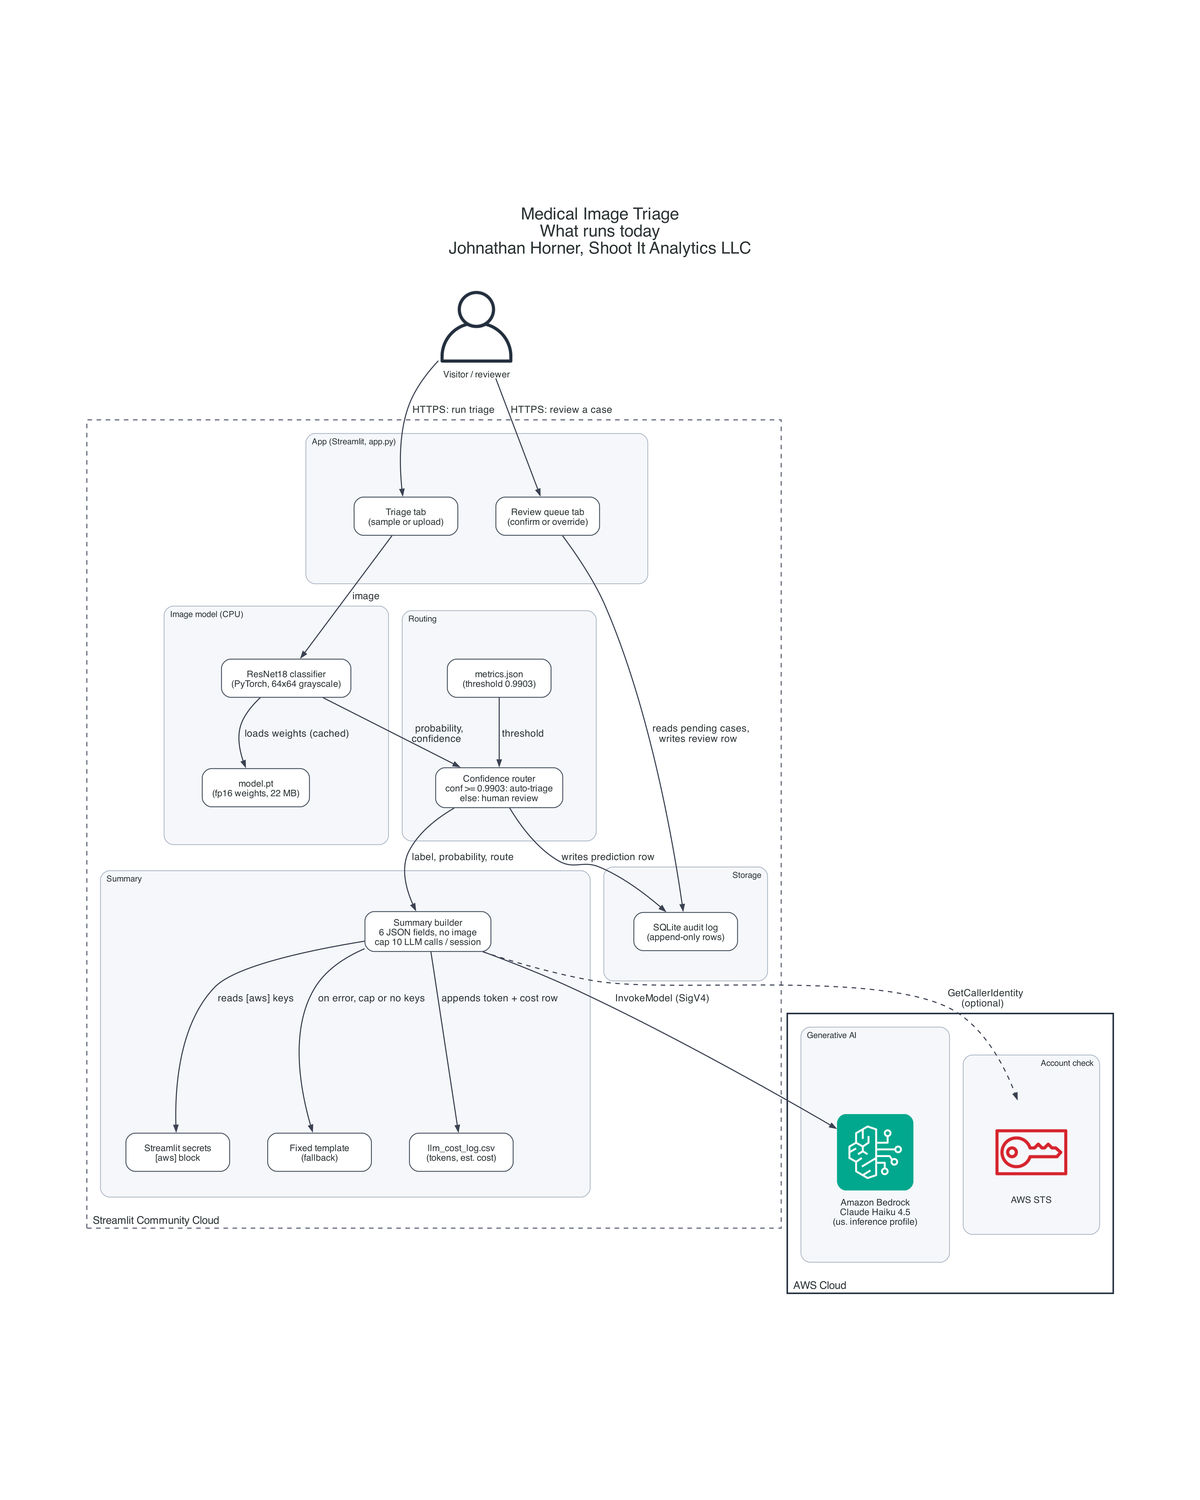
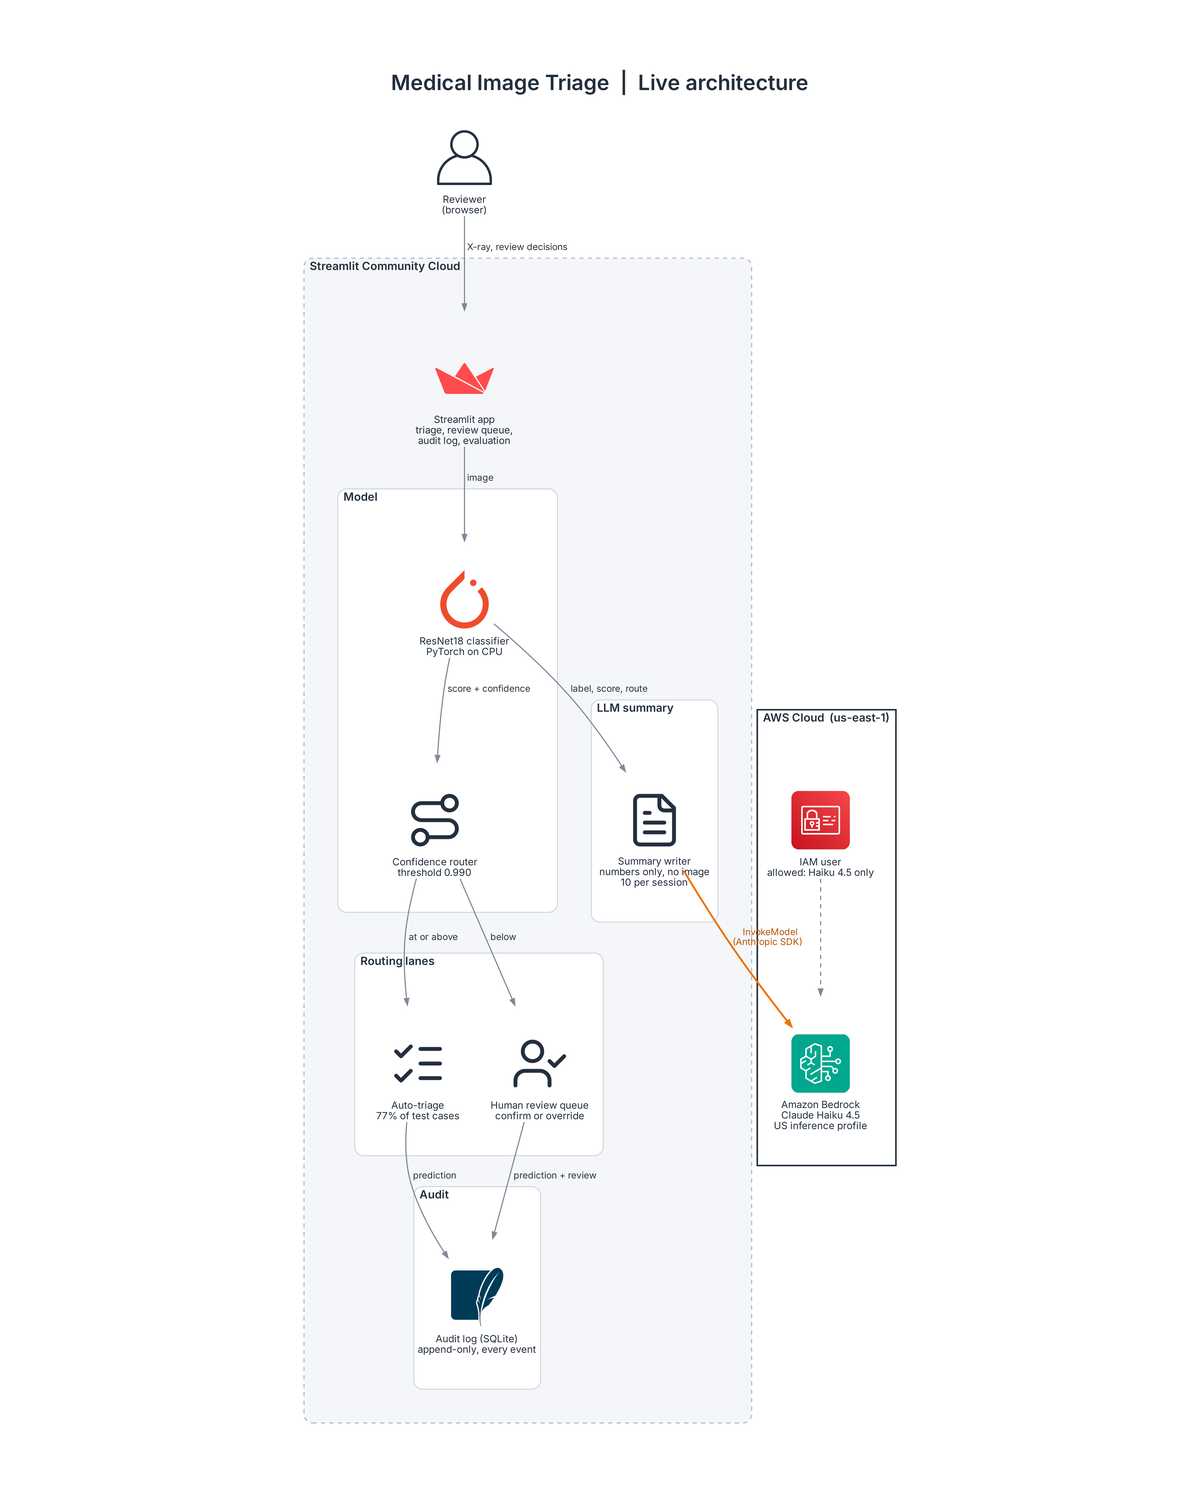
Replace architecture diagrams

diff --git a/docs/architecture/architecture.py b/docs/architecture/architecture.py
@@ -1,67 +1,47 @@
-"""Medical Image Triage: what runs today, traced from origin/main (e73b006).
+"""Medical Image Triage: what runs today (live on Streamlit Community Cloud)."""
+import sys
+from pathlib import Path
 
-Run from this directory:  python architecture.py
-Writes architecture.png (300 DPI) and architecture-linkedin.png (1200x1500).
-"""
-from diagrams.aws.general import User
+sys.path.insert(0, str(Path(__file__).resolve().parent))
+from diagrams import Diagram, Edge
 from diagrams.aws.ml import Bedrock
-from diagrams.aws.security import IAMAWSSts
+from diagrams.aws.security import IAM
+from diagrams.onprem.client import User
 
-from archstyle import arch, aws_cloud, box, e, layer, linkedin, outside
+from style import EDGE, GRAPH, NODE, area, flow, icon, primary, soft
 
+with Diagram("Medical Image Triage  |  Live architecture",
+             filename=str(Path(__file__).with_name("architecture")), outformat="png", direction="TB",
+             show=False, graph_attr=GRAPH, node_attr=NODE, edge_attr=EDGE):
+    user = User("Reviewer\n(browser)")
 
-def layer_r(label: str, margin: int = 30):
-    """layer() with its label top-right, for layers whose arrows arrive from the upper left."""
-    c = layer(label, margin)
-    c.dot.graph_attr["labeljust"] = "r"
-    return c
+    with area("Streamlit Community Cloud", "host"):
+        app = icon("streamlit", "Streamlit app\ntriage, review queue,\naudit log, evaluation")
 
-OUT = "architecture"
+        with area("Model"):
+            model = icon("pytorch", "ResNet18 classifier\nPyTorch on CPU")
+            router = icon("route-ink", "Confidence router\nthreshold 0.990")
 
-with arch("Medical Image Triage", "What runs today", OUT):
-    user = User("Visitor / reviewer")
+        with area("Routing lanes"):
+            auto = icon("list-checks-ink", "Auto-triage\n77% of test cases")
+            queue = icon("user-check-ink", "Human review queue\nconfirm or override")
 
-    with outside("Streamlit Community Cloud"):
-        with layer("App (Streamlit, app.py)", margin=64):
-            triage = box("Triage tab\n(sample or upload)")
-            review = box("Review queue tab\n(confirm or override)")
+        with area("LLM summary"):
+            summary = icon("file-text-ink", "Summary writer\nnumbers only, no image\n10 per session")
+        with area("Audit"):
+            audit = icon("sqlite", "Audit log (SQLite)\nappend-only, every event")
 
-        with layer("Image model (CPU)", margin=50):
-            clf = box("ResNet18 classifier\n(PyTorch, 64x64 grayscale)")
-            weights = box("model.pt\n(fp16 weights, 22 MB)")
+    with area("AWS Cloud  (us-east-1)", "aws"):
+        iam = IAM("IAM user\nallowed: Haiku 4.5 only")
+        bedrock = Bedrock("Amazon Bedrock\nClaude Haiku 4.5\nUS inference profile")
 
-        with layer("Routing", margin=44):
-            metrics = box("metrics.json\n(threshold 0.9903)")
-            router = box("Confidence router\nconf >= 0.9903: auto-triage\nelse: human review")
-
-        with layer_r("Storage", margin=40):
-            audit = box("SQLite audit log\n(append-only rows)")
-
-        with layer("Summary", margin=34):
-            secrets = box("Streamlit secrets\n[aws] block")
-            summ = box("Summary builder\n6 JSON fields, no image\ncap 10 LLM calls / session")
-            tmpl = box("Fixed template\n(fallback)")
-            cost = box("llm_cost_log.csv\n(tokens, est. cost)")
-
-    with aws_cloud():
-        with layer("Generative AI", margin=48):
-            llm = Bedrock("Amazon Bedrock\nClaude Haiku 4.5\n(us. inference profile)")
-        with layer_r("Account check", margin=40):
-            sts = IAMAWSSts("AWS STS")
-
-    user >> e("HTTPS: run triage") >> triage
-    user >> e("HTTPS: review a case") >> review
-    triage >> e("image") >> clf
-    clf >> e("loads weights (cached)") >> weights
-    clf >> e("probability,\nconfidence") >> router
-    metrics >> e("threshold") >> router
-    router >> e("writes prediction row") >> audit
-    review >> e("reads pending cases,\nwrites review row") >> audit
-    router >> e("label, probability, route") >> summ
-    summ >> e("reads [aws] keys") >> secrets
-    summ >> e("InvokeModel (SigV4)") >> llm
-    summ >> e("GetCallerIdentity\n(optional)", style="dashed") >> sts
-    summ >> e("on error, cap or no keys") >> tmpl
-    summ >> e("appends token + cost row") >> cost
-
-linkedin(OUT)
+    user >> flow("X-ray, review decisions") >> app
+    app >> flow("image") >> model
+    model >> flow("score + confidence") >> router
+    router >> flow("at or above") >> auto
+    router >> flow("below") >> queue
+    model >> flow("label, score, route") >> summary
+    summary >> primary("InvokeModel\n(Anthropic SDK)") >> bedrock
+    iam >> soft() >> bedrock
+    auto >> flow("prediction") >> audit
+    queue >> flow("prediction + review") >> audit

diff --git a/docs/architecture/style.py b/docs/architecture/style.py
@@ -1,0 +1,58 @@
+"""Shared look for every portfolio architecture diagram.
+
+Johnathan Horner, Shoot It Analytics LLC.
+Python diagrams library, official AWS icons, white background, top-down, labeled arrows.
+Brand icons: Simple Icons (CC0). Outline icons: Lucide (ISC).
+"""
+from pathlib import Path
+
+from diagrams import Cluster, Edge
+from diagrams.custom import Custom
+
+ICONS = Path(__file__).parent / "icons"
+FONT = "Inter"
+
+INK = "#232F3E"      # AWS squid ink
+ORANGE = "#ED7100"   # primary AI path
+GREY = "#7D8998"
+RED = "#DD344C"
+
+GRAPH = {
+    "dpi": "300", "bgcolor": "white", "fontname": FONT + " SemiBold", "fontsize": "30",
+    "fontcolor": INK, "labelloc": "t", "pad": "0.6", "nodesep": "1.25", "ranksep": "1.05",
+    "splines": "spline", "newrank": "true", "compound": "true",
+}
+NODE = {"fontname": FONT, "fontsize": "14", "fontcolor": INK, "width": "1.15", "height": "1.15",
+        "imagescale": "true", "labelloc": "b"}
+EDGE = {"fontname": FONT, "fontsize": "13", "fontcolor": "#3B4754", "color": GREY, "penwidth": "1.6",
+        "arrowsize": "0.9"}
+
+
+def area(label, kind="layer"):
+    """Cluster styles: 'host' (outer platform), 'aws' (AWS Cloud boundary), 'ext' (outside vendor), 'layer'."""
+    base = {"fontname": FONT + " SemiBold", "fontsize": "16", "fontcolor": INK, "margin": "48",
+            "labeljust": "l", "style": "rounded"}
+    styles = {
+        "host": {"bgcolor": "#F4F6F9", "pencolor": "#AEB6C1", "style": "rounded,dashed", "penwidth": "1.5"},
+        "aws": {"bgcolor": "#FFFFFF", "pencolor": INK, "penwidth": "2.2", "style": "solid"},
+        "ext": {"bgcolor": "#FAF8FD", "pencolor": "#B9A9D6", "style": "rounded,dashed", "penwidth": "1.5"},
+        "layer": {"bgcolor": "#FFFFFF", "pencolor": "#C9D0D9", "penwidth": "1.2"},
+        "plan": {"bgcolor": "#FFFFFF", "pencolor": GREY, "style": "rounded,dashed", "penwidth": "1.5"},
+    }
+    return Cluster(label, graph_attr={**base, **styles[kind]})
+
+
+def icon(name, label):
+    return Custom(label, str(ICONS / f"{name}.png"))
+
+
+def flow(label="", **kw):
+    return Edge(label=f" {label} " if label else "", **kw)
+
+
+def primary(label=""):
+    return flow(label, color=ORANGE, penwidth="2.6", fontcolor="#B35400")
+
+
+def soft(label=""):
+    return flow(label, style="dashed")

diff --git a/docs/architecture/arrow-verification.md b/docs/architecture/arrow-verification.md
@@ -1,24 +1,15 @@
-# Arrow verification: Medical Image Triage
+# Arrow check
 
-Diagram: `docs/architecture/architecture.png` ("What runs today"). Code read from `origin/main` at e73b006
-(Merge PR #4). There is no second diagram: no IaC exists on main (the legacy CDK app was deleted in 886d5a7).
+Every arrow that touches an AWS service, with the official AWS page that confirms it and its direction. Arrows between non-AWS parts (Streamlit, Gemini, SQLite, scikit-learn and so on) were checked against the code only. Links come from docs.aws.amazon.com only.
 
-| From | To | Action | Code evidence | AWS doc |
-|---|---|---|---|---|
-| Visitor / reviewer | Triage tab | HTTPS: run triage (pick a bundled sample or upload PNG/JPEG, press Run triage) | app.py:66-87 (`triage_tab`), app.py:214-216 | N/A (not AWS) |
-| Visitor / reviewer | Review queue tab | HTTPS: review a case (pick reviewer label, Submit review) | app.py:133-149 (`review_tab`), app.py:217-218 | N/A (not AWS) |
-| Triage tab | ResNet18 classifier | image (PIL image passed to `triage_case`, which calls `classifier.predict`; resized to 64x64 grayscale) | app.py:105-106; triage/pipeline.py:39; triage/model.py:38-41, 70-72 | N/A (not AWS) |
-| ResNet18 classifier | model.pt | loads weights (once per process, `st.cache_resource`; fp16 cast back to float32) | triage/model.py:55-59; triage/config.py:12; app.py:41-43 | N/A (not AWS) |
-| ResNet18 classifier | Confidence router | probability, confidence (`confidence = max(p, 1-p)`) | triage/model.py:75-78; triage/pipeline.py:39-40 | N/A (not AWS) |
-| metrics.json | Confidence router | threshold (`routing.threshold` = 0.9903, read at app start and passed to `triage_case`) | triage/pipeline.py:17-18; app.py:197, 216; artifacts/metrics.json:86; triage/routing.py:10-12 | N/A (not AWS) |
-| Confidence router | SQLite audit log | writes prediction row (`reviewer_action` = 'pending' for human_review, 'none' for auto_triage) | triage/pipeline.py:41-43; triage/audit.py:57-73 | N/A (not AWS) |
-| Review queue tab | SQLite audit log | reads pending cases (latest event per case with action 'pending'), writes review row ('confirmed' / 'overridden') | app.py:134, 147; triage/audit.py:75-83, 98-107 | N/A (not AWS) |
-| Confidence router | Summary builder | label, probability, route (6-field JSON payload: model_version, model_leaning, pneumonia_probability, confidence, routing_threshold, route) | triage/pipeline.py:44-47; triage/summary.py:42-51; tests/test_summary.py:30-38 | N/A (not AWS) |
-| Summary builder | Streamlit secrets | reads [aws] keys (`st.secrets["aws"]` access_key_id / secret_access_key / region; read in app.py and passed to `make_client`) | app.py:24-33, 101; triage/summary.py:83-91 | N/A (not AWS) |
-| Summary builder | Amazon Bedrock (Claude Haiku 4.5, us. profile) | InvokeModel (SigV4). `AnthropicBedrock(...).messages.create(model="us.anthropic.claude-haiku-4-5-20251001-v1:0", max_tokens=300, system=..., messages=[payload JSON])`; the SDK rewrites `/v1/messages` to `POST /model/{model}/invoke` on bedrock-runtime and signs with botocore SigV4Auth. The client calls Bedrock; Bedrock returns text + usage. | triage/summary.py:19, 83-111; app.py:96-106 | Verified. https://docs.aws.amazon.com/bedrock/latest/APIReference/API_runtime_InvokeModel.html (request is `POST /model/{modelId}/invoke`; modelId may be an inference profile ID; example uses a `us.anthropic...` profile with `anthropic_version` body). https://docs.aws.amazon.com/bedrock/latest/userguide/model-card-anthropic-claude-haiku-4-5.html (Invoke and Messages supported on bedrock-runtime; geo ID `us.anthropic.claude-haiku-4-5-20251001-v1:0`; from us-east-1 it routes to us-east-1, us-east-2, us-west-2; bare model ID not supported on-demand). https://docs.aws.amazon.com/bedrock/latest/userguide/model-parameters-anthropic-claude-messages.html (Claude Messages API runs on InvokeModel / InvokeModelWithResponseStream). SDK mapping (non-AWS source): https://raw.githubusercontent.com/anthropics/anthropic-sdk-python/main/src/anthropic/lib/bedrock/_client.py and .../lib/aws/_auth.py (SigV4Auth). |
-| Summary builder | AWS STS | GetCallerIdentity (optional, dashed): runs only when env var `EXPECTED_AWS_ACCOUNT` is set; refuses to call Bedrock if the returned Account differs | triage/summary.py:67-80, 85 | Verified. https://docs.aws.amazon.com/STS/latest/APIReference/API_GetCallerIdentity.html (returns the Account of the calling credentials; no permissions required). Whether the variable is set on Streamlit Cloud cannot be seen from the repo. |
-| Summary builder | Fixed template | on error, cap or no keys (any exception, `stop_reason == "refusal"`, empty text, session cap reached, or toggle off) | triage/summary.py:54-60, 103-107, 114-123; app.py:91-104, 204-212 | N/A (not AWS) |
-| Summary builder | llm_cost_log.csv | appends token + cost row (timestamp, model, input/output tokens, estimated USD at 1.10 / 5.50 per million) | triage/summary.py:21-23, 108-110, 126-134 | N/A (not AWS) |
+## architecture.png (live)
 
-UNVERIFIED arrows: none. One sub-claim is not from an AWS page: that `AnthropicBedrock.messages.create`
-becomes InvokeModel and is SigV4-signed comes from the Anthropic SDK source (linked above), not docs.aws.amazon.com.
+| From | To | Action | AWS doc |
+|---|---|---|---|
+| Summary writer | Amazon Bedrock, Claude Haiku 4.5 | InvokeModel through the Anthropic SDK (AnthropicBedrock, Messages format) | https://docs.aws.amazon.com/bedrock/latest/APIReference/API_runtime_InvokeModel.html |
+| Summary writer | Amazon Bedrock | Request body uses the Anthropic Claude Messages API | https://docs.aws.amazon.com/bedrock/latest/userguide/model-parameters-anthropic-claude-messages.html |
+| IAM user | Amazon Bedrock | Authorizes InvokeModel on Haiku 4.5 only | https://docs.aws.amazon.com/bedrock/latest/APIReference/API_runtime_InvokeModel.html |
+
+## UNVERIFIED
+
+None.
